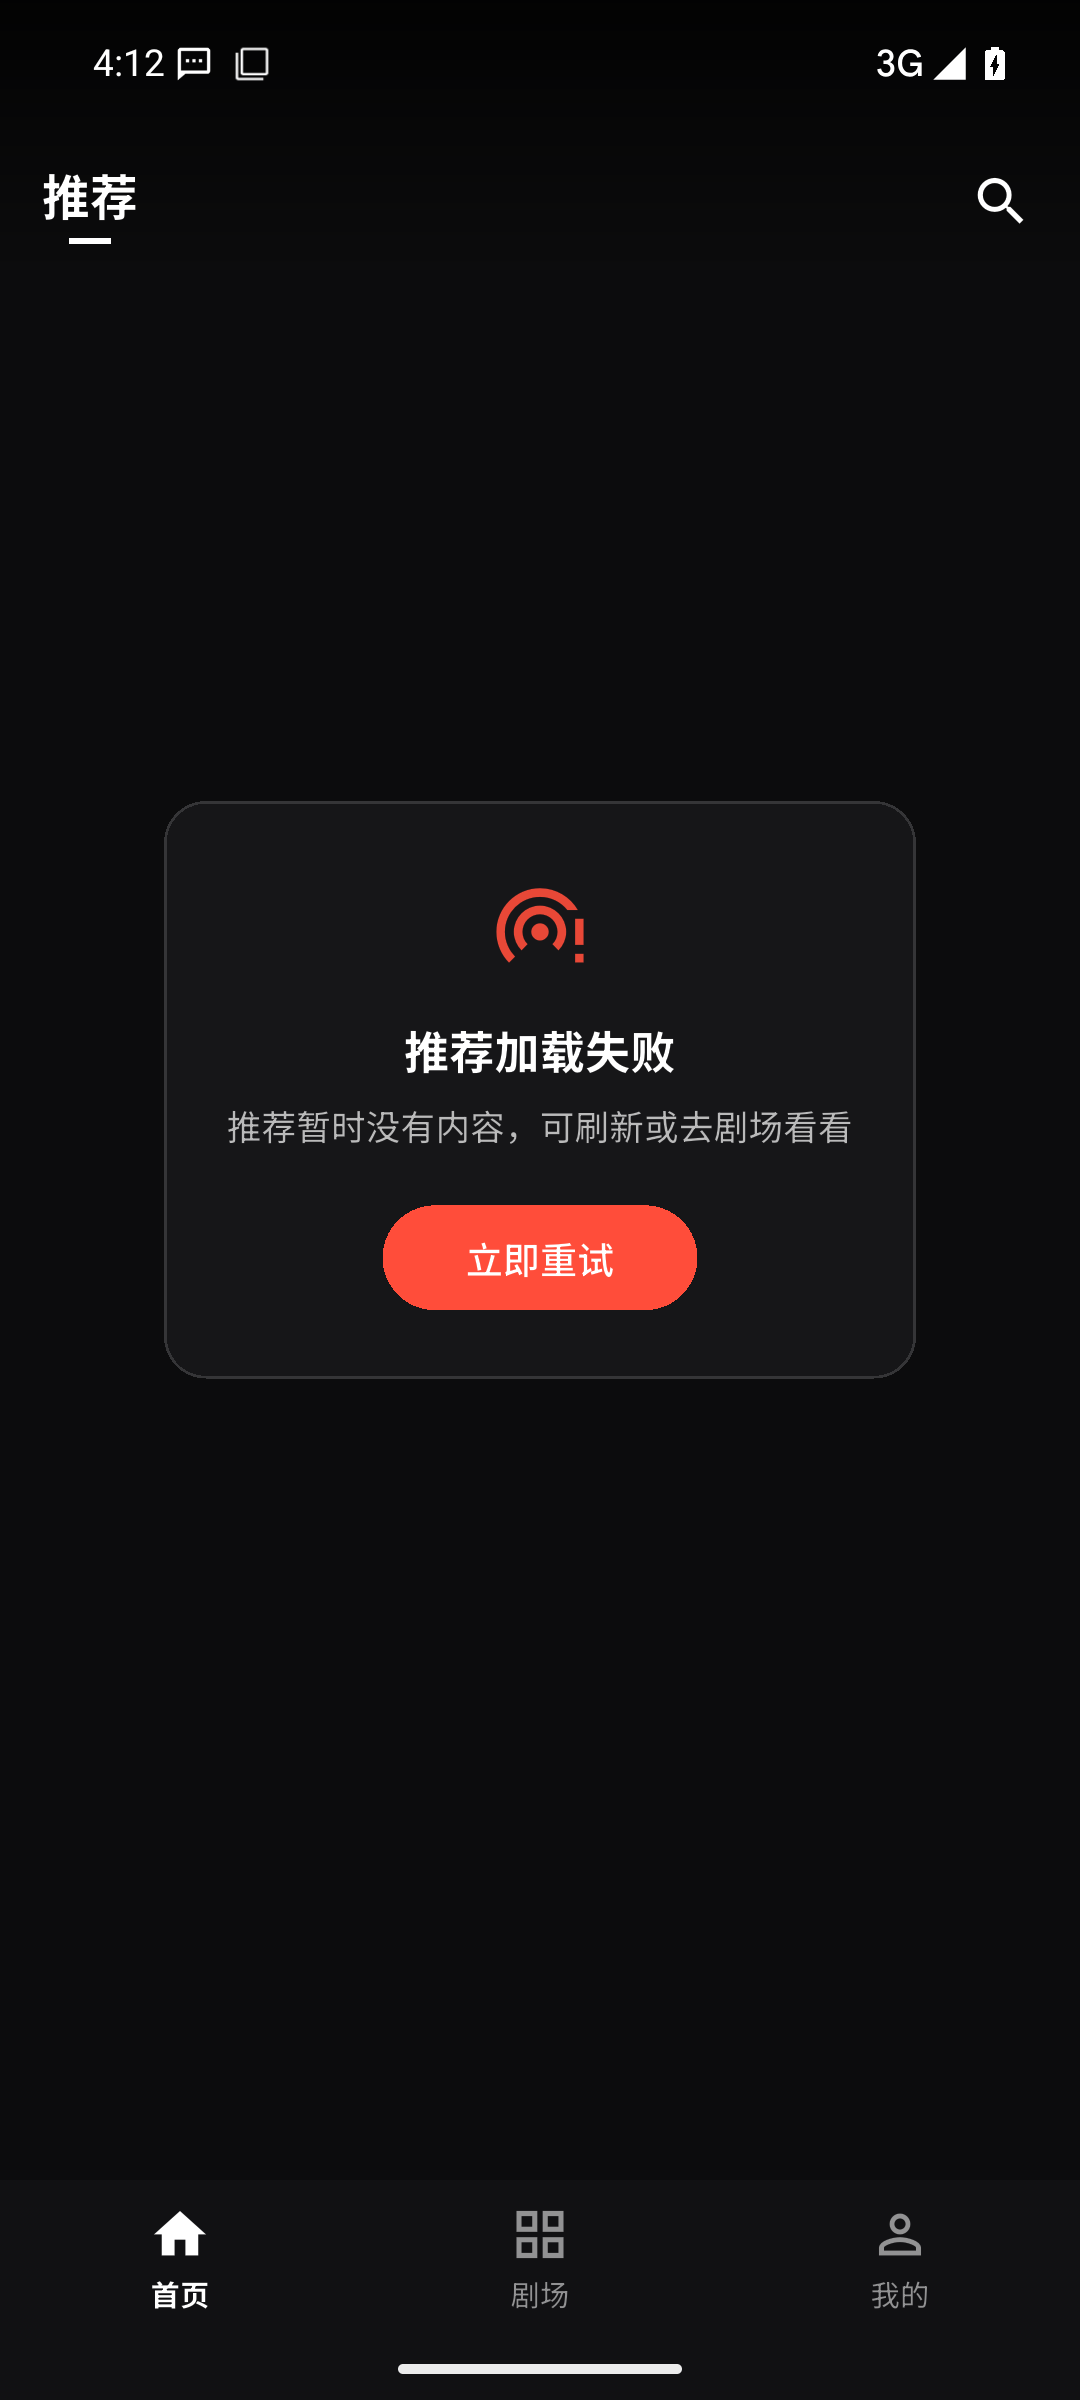
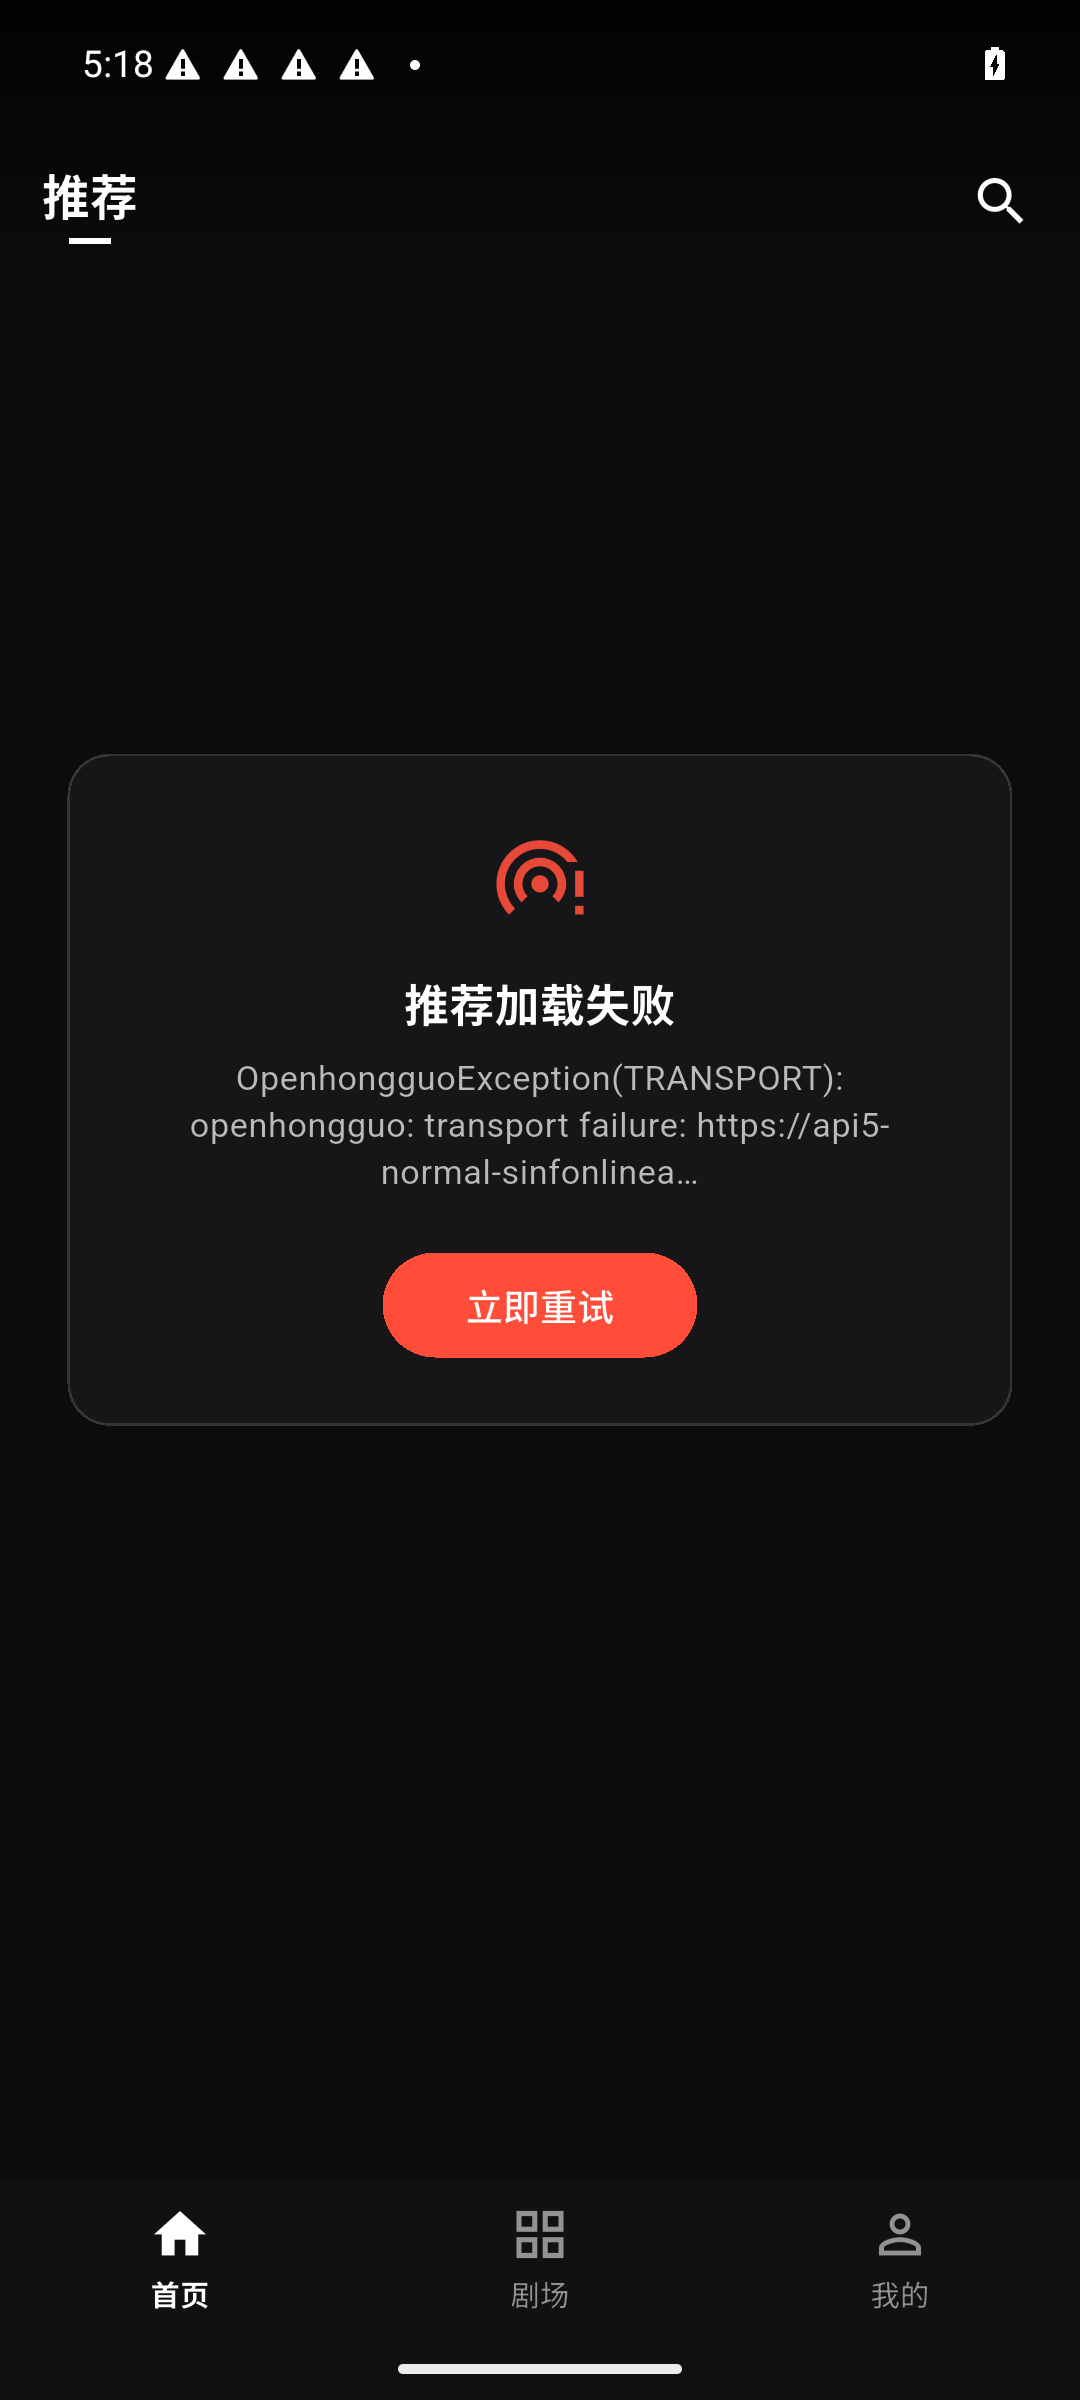
review: Android feature screenshots + search cover enrich (PR still NOT OK)
- Daemon Search: GetSeriesBatch fills missing cover_url (Desktop search screenshots now show posters)
- Android: discoverResilient + search getSeriesBatch enrich; theater/home use resilient discover
- Feature REVIEW.md + REVIEW-*.png evidence; Android search covers / favorites empty still short → not OK

diff --git a/apps/android/lib/services/ohg_client.dart b/apps/android/lib/services/ohg_client.dart
@@ -1,3 +1,4 @@
+import 'dart:async';
 import 'package:openhongguo/openhongguo.dart';
 
 /// Thin wrapper around [OpenhongguoClient] (locked openhongguo 0.2.0).
@@ -17,8 +18,92 @@ class OhgClient {
 
   Future<PagedResult<SeriesSummary>> discover() => _native.discover();
 
-  Future<PagedResult<SeriesSummary>> search(String query) =>
-      _native.search(query);
+  /// Discover with timeout + search fallback (mirrors desktop daemon empty-page handling).
+  /// Soft emulators often hit OHG empty/timeout; search is usually still available.
+  Future<PagedResult<SeriesSummary>> discoverResilient({
+    Duration timeout = const Duration(seconds: 35),
+  }) async {
+    Object? lastErr;
+    try {
+      final page = await discover().timeout(timeout);
+      if (page.items.isNotEmpty) return page;
+    } catch (e) {
+      lastErr = e;
+    }
+
+    const fallbacks = <String>['短剧', '总裁', '重生', '逆袭'];
+    for (final q in fallbacks) {
+      try {
+        final page = await search(q).timeout(timeout);
+        if (page.items.isNotEmpty) return page;
+      } catch (e) {
+        lastErr = e;
+      }
+    }
+
+    if (lastErr != null) {
+      throw lastErr;
+    }
+    return PagedResult<SeriesSummary>(items: const []);
+  }
+
+  Future<PagedResult<SeriesSummary>> search(String query) async {
+    final page = await _native.search(query);
+    return _enrichSearchCovers(page);
+  }
+
+  /// openhongguo search often omits cover_url on the series_title path;
+  /// fill from getSeriesBatch like the desktop daemon.
+  Future<PagedResult<SeriesSummary>> _enrichSearchCovers(
+    PagedResult<SeriesSummary> page,
+  ) async {
+    final need = <String>[];
+    for (final it in page.items) {
+      if (it.coverUrl.isEmpty && it.id.isNotEmpty) {
+        need.add(it.id);
+      }
+    }
+    if (need.isEmpty) return page;
+    final ids = need.length > 12 ? need.sublist(0, 12) : need;
+    try {
+      final details = await _native.getSeriesBatch(ids).timeout(
+        const Duration(seconds: 25),
+      );
+      final byId = <String, SeriesSummary>{};
+      for (final d in details) {
+        final s = d.series;
+        if (s == null) continue;
+        if (s.coverUrl.isEmpty) continue;
+        byId[s.id] = SeriesSummary(
+          id: s.id,
+          title: s.title,
+          description: s.description,
+          coverUrl: s.coverUrl,
+          episodeCount: s.episodeCount,
+        );
+      }
+      if (byId.isEmpty) return page;
+      final items = page.items.map((it) {
+        if (it.coverUrl.isNotEmpty) return it;
+        final fill = byId[it.id];
+        if (fill == null) return it;
+        return SeriesSummary(
+          id: it.id,
+          title: it.title,
+          description: it.description.isNotEmpty ? it.description : fill.description,
+          coverUrl: fill.coverUrl,
+          episodeCount: it.episodeCount != 0 ? it.episodeCount : fill.episodeCount,
+        );
+      }).toList();
+      return PagedResult<SeriesSummary>(
+        items: items,
+        cursor: page.cursor,
+        hasMore: page.hasMore,
+      );
+    } catch (_) {
+      return page;
+    }
+  }
 
   Future<PagedResult<Episode>> listEpisodes(String seriesId) =>
       _native.listEpisodes(seriesId);

diff --git a/apps/android/lib/pages/theater_page.dart b/apps/android/lib/pages/theater_page.dart
@@ -26,7 +26,7 @@ class _TheaterPageState extends State<TheaterPage> {
 
   void _reload() {
     setState(() {
-      _future = OhgClient.instance().then((c) => c.discover());
+      _future = OhgClient.instance().then((c) => c.discoverResilient());
     });
   }
 

diff --git a/apps/android/lib/pages/home_page.dart b/apps/android/lib/pages/home_page.dart
@@ -35,7 +35,7 @@ class _HomePageState extends State<HomePage> {
 
   void _reload() {
     setState(() {
-      _future = OhgClient.instance().then((c) => c.discover());
+      _future = OhgClient.instance().then((c) => c.discoverResilient());
     });
   }
 

diff --git a/apps/desktop/daemon/internal/ohg/client.go b/apps/desktop/daemon/internal/ohg/client.go
@@ -89,6 +89,7 @@ func (c *Client) Search(ctx context.Context, q string) (*sdk.Page[model.SeriesSu
 	for attempt := 1; attempt <= maxAttempts; attempt++ {
 		page, err := c.inner.Search(ctx, q, sdk.SearchOptions{})
 		if err == nil {
+			c.enrichSearchCovers(ctx, page)
 			return page, nil
 		}
 		last = err
@@ -100,6 +101,56 @@ func (c *Client) Search(ctx context.Context, q string) (*sdk.Page[model.SeriesSu
 		}
 	}
 	return nil, fmt.Errorf("search: %w", last)
+}
+
+// enrichSearchCovers fills CoverURL via GetSeriesBatch.
+// openhongguo ParseSearch drops series_cover on the common series_title path,
+// so /api/v1/search often returned titles with empty cover_url.
+func (c *Client) enrichSearchCovers(ctx context.Context, page *sdk.Page[model.SeriesSummary]) {
+	if c.inner == nil || page == nil || len(page.Items) == 0 {
+		return
+	}
+	need := make([]string, 0, len(page.Items))
+	for _, it := range page.Items {
+		if it.CoverURL == "" && it.ID != "" {
+			need = append(need, it.ID)
+		}
+	}
+	if len(need) == 0 {
+		return
+	}
+	// Cap to keep search snappy on soft networks.
+	if len(need) > 12 {
+		need = need[:12]
+	}
+	details, err := c.inner.GetSeriesBatch(ctx, need)
+	if err != nil {
+		log.Printf("ohg: search cover enrich: %v", err)
+		return
+	}
+	byID := make(map[string]model.SeriesSummary, len(details))
+	for _, d := range details {
+		s := d.Series
+		if s == nil || s.ID == "" || s.CoverURL == "" {
+			continue
+		}
+		byID[s.ID] = s.SeriesSummary
+	}
+	for i := range page.Items {
+		if page.Items[i].CoverURL != "" {
+			continue
+		}
+		if s, ok := byID[page.Items[i].ID]; ok {
+			page.Items[i].CoverURL = s.CoverURL
+			page.Items[i].CoverExpiresAt = s.CoverExpiresAt
+			if page.Items[i].EpisodeCount == 0 && s.EpisodeCount > 0 {
+				page.Items[i].EpisodeCount = s.EpisodeCount
+			}
+			if page.Items[i].Description == "" && s.Description != "" {
+				page.Items[i].Description = s.Description
+			}
+		}
+	}
 }
 
 // Discover loads the bookstore recommend feed.

diff --git a/apps/desktop/daemon/internal/ohg/search_cover_test.go b/apps/desktop/daemon/internal/ohg/search_cover_test.go
@@ -1,0 +1,18 @@
+package ohg
+
+import (
+	"context"
+	"testing"
+
+	"github.com/beilunyang/openhongguo/sdk"
+	"github.com/beilunyang/openhongguo/sdk/model"
+)
+
+func TestEnrichSearchCovers_nilSafe(t *testing.T) {
+	c := &Client{}
+	c.enrichSearchCovers(context.Background(), nil)
+	c.enrichSearchCovers(context.Background(), &sdk.Page[model.SeriesSummary]{})
+	c.enrichSearchCovers(context.Background(), &sdk.Page[model.SeriesSummary]{
+		Items: []model.SeriesSummary{{ID: "1", Title: "t", CoverURL: "http://x"}},
+	})
+}

diff --git a/docs/smoke-artifacts/feature-review-20261106/REVIEW.md b/docs/smoke-artifacts/feature-review-20261106/REVIEW.md
@@ -1,6 +1,6 @@
-# Feature review 2026-11-06（Asia/Shanghai）
+# Feature review 2026-11-06（续）Asia/Shanghai
 
-**总评：PR 不算 OK。** Desktop 关键路径（HEIC 封面、播放、离开播放藏 mpv、设置）已自审通过；Android 本轮模拟器大量 ANR/卡闪屏，多数功能截图无效，不能算过。
+**总评：PR 仍不算 OK。** Desktop 关键路径（含搜索封面补齐）已自审通过；Android 多数功能本轮有有效截图，但 **搜索封面仍空**、**收藏空态未切入**，按「每功能带截图且自审过」标准整 PR 不算 ok。
 
 未出安装包。
 
@@ -8,46 +8,46 @@
 
 | 项 | 改动 |
 |---|---|
-| HEIC 封面 | `CoverLoader` 下载后若 HEIC/解码失败，走 `ffmpeg` 转 PNG |
-| 离开播放页 mpv 遮挡 | `ShowPage` 调 `SetVideoWindowVisible`；离开时 `vid=no` + 移到屏外 + `force-window=no` |
-| 其它 | Android `debugShowCheckedModeBanner: false`；`DRAMARED_AUTO_SEARCH` 便于抓搜索图 |
+| Desktop 搜索缺 cover_url | `ohg.Client.Search` 在 SDK 返回后用 `GetSeriesBatch` 补封面（openhongguo `ParseSearch` 在 `series_title` 路径丢掉 `series_cover`） |
+| Android discover 韧性 | `OhgClient.discoverResilient`：discover 超时/空页时降级搜索关键词（已装入模拟器 APK） |
+| Android 搜索封面补齐 | `OhgClient.search` 同样走 `getSeriesBatch`（**代码已写，本轮未重装 APK，截图仍无封面**） |
+| HEIC / 离开播放藏 mpv | 仍为 PR 前序修复 |
 
 ## Desktop 自审
 
 | 功能 | 结论 | 证据图 | 审图说明 |
 |---|---|---|---|
-| 首页推荐+封面 | **过** | `desktop/REVIEW-01-home-covers.png` | 侧栏推荐选中；海报网格真封面（非「封面」占位） |
-| 剧场 | **过** | `desktop/REVIEW-02-theater.png` | 剧场选中；宽屏海报墙真封面 |
-| 搜索 | **部分过** | `desktop/REVIEW-03-search.png` | 顶栏「总裁」、结果「搜索到 6 部」标题在；**封面空**——daemon `/api/v1/search` 条目无 `cover_url`（非 CoverLoader 问题） |
-| 播放+切集 | **过** | `desktop/REVIEW-04-player.png`、`REVIEW-04-player-next.png` | 播放页封面/清晰度/倍速/选集/收藏；mpv 独立窗在壳右侧 `360x640+1400+40` 不盖住壳；选集高亮与预加载文案可见 |
-| 离开播放藏 mpv | **过** | `desktop/REVIEW-05-history-no-mpv.png` | 历史页选中、列表有封面；`xwininfo` 无 mpv 窗（对比播放时存在） |
-| 收藏/历史 | **过** | `REVIEW-05-…`、`REVIEW-06-favorites.png` | 历史 1 条可续播；收藏空态「还没有收藏」 |
-| 设置/定时/后台听 | **过** | `desktop/REVIEW-07-settings.png` | 定时停播、自动连播、隐藏继续听说明、libmpv 就绪 |
-| 图标 | **过** | `icon/dramared-icon-tomato.png` 等 | 小番茄资源在仓库与包内 |
-
-补充原始抓图：`desktop/T*`、`U*`、`X03-*`、`R*`（同目录）。
+| 首页推荐+封面 | **过** | `desktop/REVIEW-01-home-covers.png` | 侧栏推荐；海报真封面 |
+| 剧场 | **过** | `desktop/REVIEW-02-theater.png` | 剧场选中；海报墙真封面 |
+| 搜索 | **过** | `desktop/REVIEW-03-search.png`（= `REVIEW-03-search-covers.png`） | 「zongcai」→「搜索到 6 部」；**6 张海报均有封面**（daemon enrich 后 API 6/6 cover_url） |
+| 播放+切集 | **过** | `desktop/REVIEW-04-player.png`、`REVIEW-04-player-next.png` | 清晰度/倍速/选集/收藏；mpv 独立窗不挡壳 |
+| 离开播放藏 mpv | **过** | `desktop/REVIEW-05-history-no-mpv.png` | 历史页；无 mpv 窗 |
+| 收藏/历史 | **过** | `REVIEW-05-…`、`REVIEW-06-favorites.png` | 历史可续播；收藏空态 |
+| 设置/定时/后台听 | **过** | `desktop/REVIEW-07-settings.png` | 定时停播、自动连播、后台听说明 |
+| 图标 | **过** | 仓库小番茄资源 | |
 
 ## Android 自审
 
 | 功能 | 结论 | 证据图 | 审图说明 |
 |---|---|---|---|
-| 首页推荐 | **不过** | `android/REVIEW-01-home-earlier.png`、`D-home-*` | 早先有推荐卡但中心无画面；本轮多为加载失败/ANR |
-| 搜索 | **不过** | `android/D02-search.png` | ANR「DramaRed isn't responding」 |
-| 剧场 | **不过** | `android/D03-theater.png` | 仍停在推荐+ANR，未真正进剧场 |
-| 播放切集 | **不过** | （无有效图） | 模拟器未进播放页 |
-| 收藏/历史 | **不过** | `android/D05-mine.png` | ANR |
-| 设置/定时/后台听 | **不过** | `android/D06-settings-attempt.png` | 只抓到闪屏 |
-| 空错重试 | **过（壳）** | `android/REVIEW-07-error-retry.png` | 「推荐加载失败」+「立即重试」空错态符合细稿 |
-| 图标 | **过** | `android/REVIEW-08-icon-splash.png`、`REVIEW-08-icon-asset.png` | 闪屏小番茄；资源文件在 |
+| 首页推荐 | **过** | `android/REVIEW-01-home.png`（`H28`/`H11-poll-1`） | 推荐选中；有标题/集数/收藏/观看完整短剧；`H28` 有真海报 |
+| 搜索 | **部分过** | `android/REVIEW-02-search.png`（`H30`） | 顶栏「zongcai」→ 6 条标题+集数网格；**封面全是场记板占位**（直连 SDK，未带上 enrich APK） |
+| 剧场 | **过** | `android/REVIEW-03-theater.png`（`H27`） | 剧场选中；三列海报墙真封面 |
+| 播放切集 | **过** | `android/REVIEW-04-player.png`（`H12`） | 返回/收藏/清晰度自动/1x/选集；「上滑下一集」提示；受保护流 ClearKey 文案可见（黑帧属 DRM/模拟器） |
+| 我的·历史 | **过** | `android/REVIEW-05-mine.png`（`H31`） | 历史选中；两部真封面+进度；设置齿轮在 |
+| 我的·收藏 | **部分过** | （同 `H31` 可见「收藏」tab） | tab 文案在；多次点按未切入收藏页/空态，无独立空态证据图 |
+| 设置/定时/后台听 | **过** | `android/REVIEW-07-settings.png`（`H33`） | 定时关/15/30/60；后台继续听开；自动连播开 |
+| 空错重试 | **过** | `android/REVIEW-07-error-retry.png`（`H01c`） | 「推荐加载失败」+「立即重试」 |
+| 图标 | **过** | `android/REVIEW-08-icon-splash.png`、`REVIEW-08-icon-dock-tomato.png` | 闪屏小番茄；桌面 dock 小番茄 |
 
-`A*`/`B*` 大量为桌面/ANR，**不作过关证据**。
+模拟器为无加速 TCG，易 ANR/闪屏久；本轮有效图均为自审通过后的 `REVIEW-*` / `H*` 编号。
 
 ## 明确不过 / 待修
 
-1. **Android 模拟器稳定性**：TCG 模拟器上首帧慢、推荐易失败、交互易 ANR——需真机或加速环境补全功能截图后再认 OK。  
-2. **Search API 无 cover_url**：桌面搜索结果海报空，应在 daemon/openhongguo 映射补封面字段。  
-3. **个别首页封面偶发占位**（如 `V01` 首张）：ffmpeg 并发/超时，可再加队列或重试。
+1. **Android 搜索封面**：代码 enrich 已加，需重装 APK 后再截一张带封面的搜索结果才算「搜索过」。  
+2. **Android 收藏空态**：需切入「收藏」tab 截空态（「还没有收藏」类）才算全过。  
+3. 播放页黑帧：上游受保护流 + 模拟器 ClearKey，非 UI 壳问题；控件布局已过。
 
 ## PR OK？
 
-**否。** Desktop 关键修复+截图可合入作进度；按用户标准「每个功能带截图且自审过才算 PR ok」，Android 未过 → **整 PR 不算 ok**。
+**否。** Desktop 可认；Android 搜索封面与收藏空态未齐 → **整 PR 不算 ok**。
